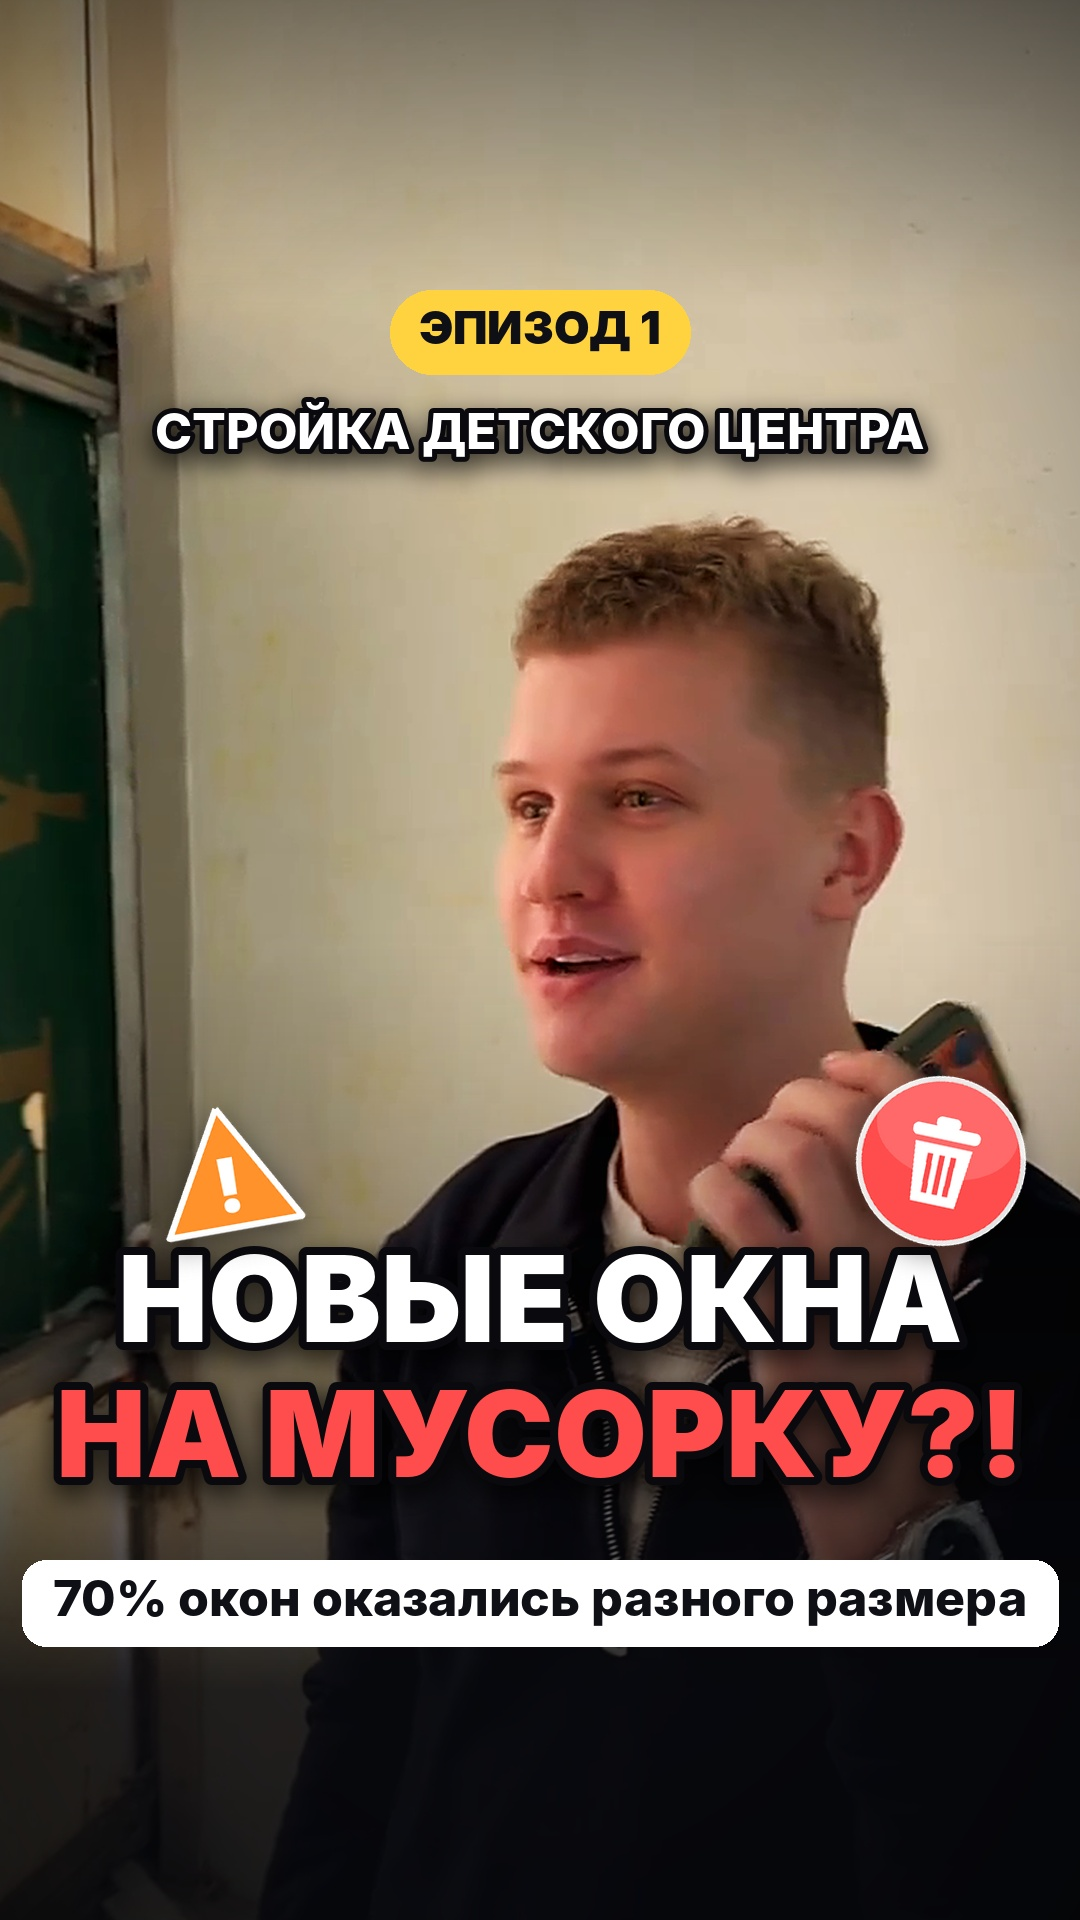
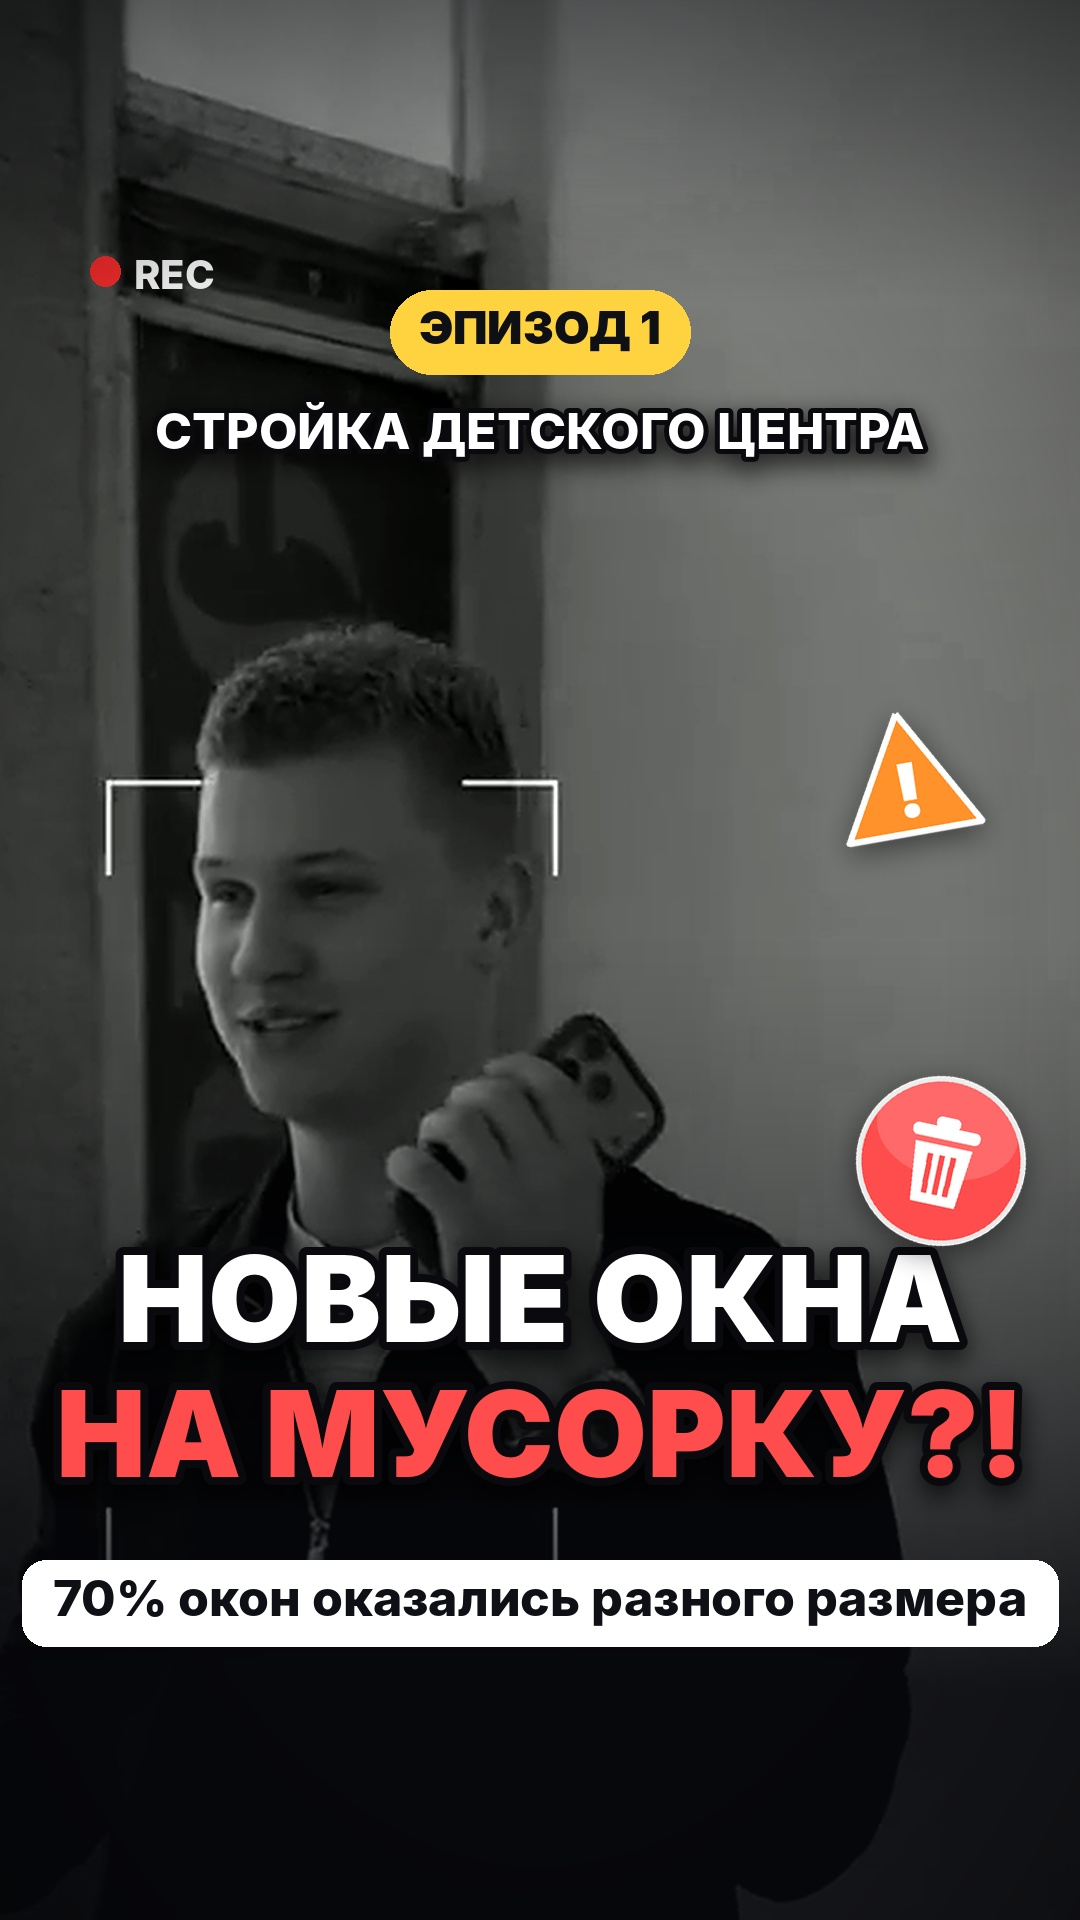
Cover: use the B&W hook frame chosen by the author
Claude-Session: https://claude.ai/code/session_01DLciofDGBYo1EFHXxS33di

diff --git a/reels_edit/project/cover.py b/reels_edit/project/cover.py
@@ -5,15 +5,16 @@ import numpy as np
 import render as R
 
 src, out = sys.argv[1], sys.argv[2]
-T = 43.60   # on the phone with Danil; a frame where the author's old captions are not on screen
+T = float(sys.argv[3]) if len(sys.argv) > 3 else 1.0   # B&W hook frame chosen by the author
 
 raw = subprocess.run(["ffmpeg", "-v", "error", "-i", src, "-ss", str(T), "-frames:v", "1", "-vf",
-                      "eq=contrast=1.08:saturation=1.1:gamma=0.97,curves=all='0/0 0.25/0.23 0.75/0.78 1/1'",
+                      "eq=contrast=1.06:saturation=1.07:gamma=0.98,curves=all='0/0 0.25/0.235 0.5/0.5 0.75/0.77 1/1'",
                       "-f", "rawvideo", "-pix_fmt", "rgb24", "-"], capture_output=True, check=True).stdout
 frame = Image.frombuffer("RGB", (R.SW, R.SH), raw, "raw", "RGB", 0, 1)
-# no old captions in this frame, so the whole picture can be used (slight zoom toward the speaker)
-img = frame.resize((R.W, R.H), Image.LANCZOS, box=(40, 30, 700, 1203))
+# exactly the framing the reel shows at this moment (old captions never in frame)
+img = frame.resize((R.W, R.H), Image.LANCZOS, box=R.camera_box(T))
 img = img.filter(ImageFilter.UnsharpMask(2.2, 60, 2)).convert("RGBA")
+R.draw_rec(img, 0.1)   # REC dot always lit on the cover
 
 # darkening gradient bottom + light top for text legibility
 yy = np.linspace(0, 1, R.H)[:, None]
@@ -65,6 +66,6 @@ d.text((R.W / 2 - (b[0] + b[2]) / 2, sy + 43 - (b[1] + b[3]) / 2), sub, font=f2,
 trash = R.badge(R.RED, R.g_trash, 170)
 img.alpha_composite(trash.rotate(-12, Image.BICUBIC, expand=True), (790, 1010))
 warn = R.warn_sprite(150)
-img.alpha_composite(warn.rotate(10, Image.BICUBIC, expand=True), (90, 1035))
+img.alpha_composite(warn.rotate(10, Image.BICUBIC, expand=True), (770, 640))
 
 img.convert("RGB").save(out, quality=95)
